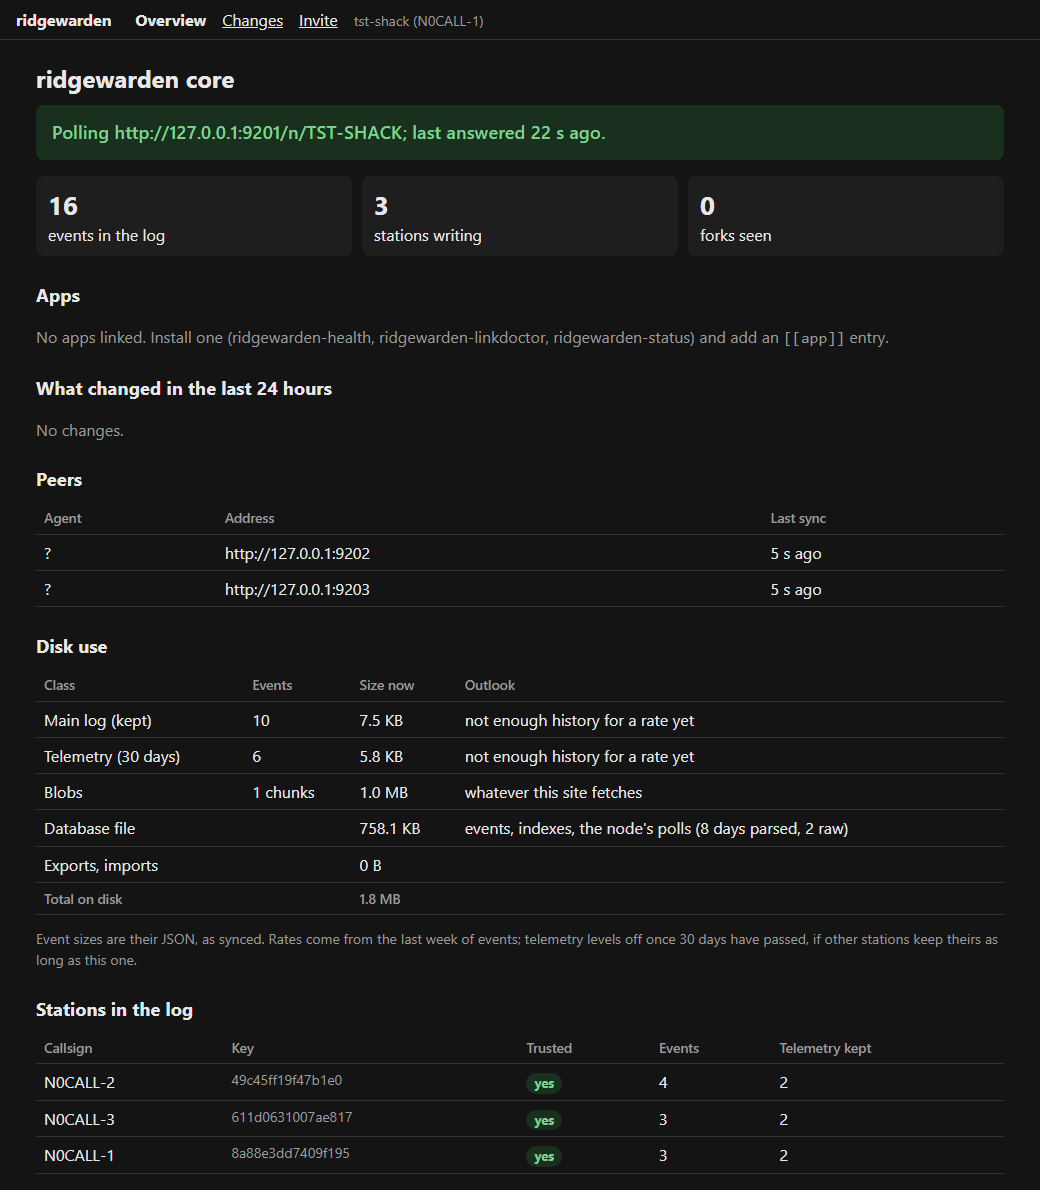
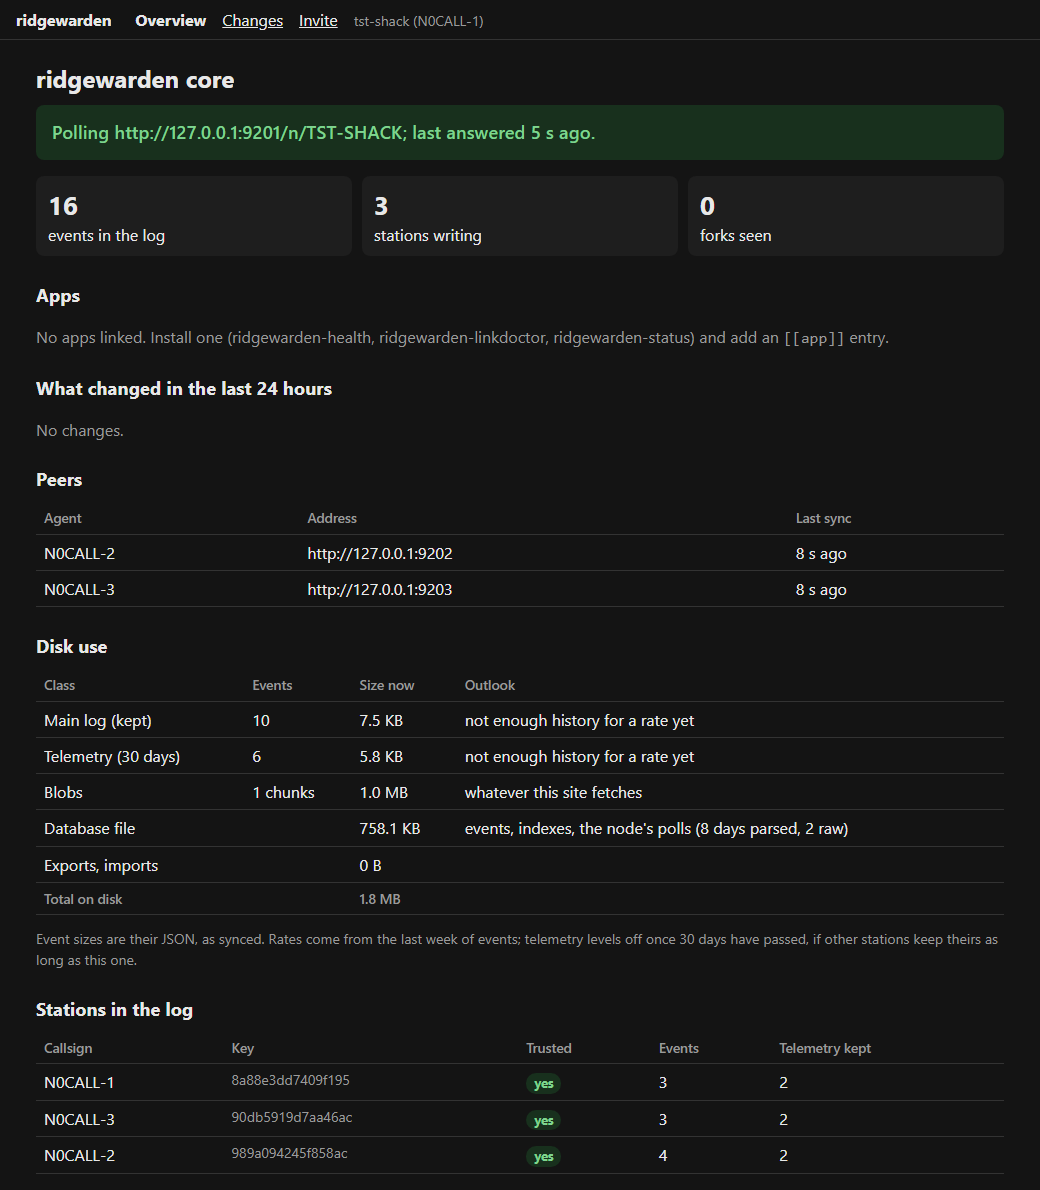
Recapture the README shots with named peers

diff --git a/README.md b/README.md
@@ -18,7 +18,7 @@
 
 <picture>
   <source media="(prefers-color-scheme: dark)" srcset="docs/images/dashboard-dark.png">
-  <img src="docs/images/dashboard-light.png" alt="The ridgewarden dashboard at site tst-shack, station N0CALL-1. A green headline says it polled its node 17 seconds ago. Cards show 16 events in the log, 3 stations writing and 0 forks seen. What changed in the last 24 hours: no changes. Both peers synced 1 second ago. A disk use table totals 1.8 MB, and the stations table lists N0CALL-1, N0CALL-2 and N0CALL-3, all trusted.">
+  <img src="docs/images/dashboard-light.png" alt="The ridgewarden dashboard at site tst-shack, station N0CALL-1. A green headline says it polled its node 4 seconds ago. Cards show 16 events in the log, 3 stations writing and 0 forks seen. What changed in the last 24 hours: no changes. Its two peers, N0CALL-2 and N0CALL-3, synced 7 seconds ago. A disk use table totals 1.8 MB, and the stations table lists N0CALL-1, N0CALL-2 and N0CALL-3, all trusted.">
 </picture>
 
 <sub>The dashboard at one of three sites on a simulated mesh (ridgewarden-sim), with all three in sync. The station names are made up.</sub>
@@ -70,11 +70,11 @@ The headline says how polling the node is going:
 | 🔴 | Node *node* last answered at *time*. | Its last answer is more than three poll intervals old. |
 | ⚪ | No poll yet. | The agent hasn't polled its node yet. |
 
-<img src="docs/images/partition.gif" alt="The tst-shack dashboard reloading through a partition drill. Site 2 is cut off: What changed lists tst-north and tst-paso as gone nodes and Paso Camera as a gone service, the peer row for site 2 turns red with failing, could not connect, and site 2's event counts stop while this site's keep growing. Then the link comes back: the peer syncs again, site 2's counts jump as the events it wrote during the split arrive, and What changed goes back to No changes.">
+<img src="docs/images/partition.gif" alt="The tst-shack dashboard reloading through a partition drill. Site 2 is cut off: its row in the peers table, N0CALL-2, turns red with failing, could not connect, What changed lists tst-north and tst-paso as gone nodes and Paso Camera as a gone service, and N0CALL-2's event counts stop while this site's keep growing. Then the link comes back: N0CALL-2 syncs again, its counts jump as the events it wrote during the split arrive, and What changed goes back to No changes.">
 
-<sub>A partition drill on the simulator: site 2 (tst-paso) cut off for 30 seconds and healed, about two minutes sped up to 12 seconds. The station names are made up.</sub>
+<sub>A partition drill on the simulator: site 2 (tst-paso) cut off for 40 seconds and healed, about two minutes sped up to under 12 seconds. The station names are made up.</sub>
 
-Under the headline: how many events the log holds, how many stations write to it and how many forks it has seen; links to the apps in the config; what changed on the mesh in the last 24 hours, as seen from this node; each peer and how its last sync went; disk use per class; and each station in the log, with its key, whether this site trusts it, its events (and how many are still missing) and the telemetry kept. A peer from the config or an invite shows `?` for its callsign, since only a peer found from its advert has its signed identity checked.
+Under the headline: how many events the log holds, how many stations write to it and how many forks it has seen; links to the apps in the config; what changed on the mesh in the last 24 hours, as seen from this node; each peer and how its last sync went; disk use per class; and each station in the log, with its key, whether this site trusts it, its events (and how many are still missing) and the telemetry kept. A peer shows the callsign from its signed identity, which the core checks when it finds the peer's advert or first pulls from it; until then it shows `?`.
 
 The Changes page makes the same comparison over 1 hour, 24 hours or 7 days, and the invite page is under [joining other sites](#joining-other-sites). A site that trusts only itself gets a note on how to join the others. The overview and the Changes page reload every minute.
 

diff --git a/CHANGELOG.md b/CHANGELOG.md
@@ -38,6 +38,7 @@ All notable changes to ridgewarden are listed here. The format follows [Keep a C
 - `ridgewarden update` tries releases from the mesh and GitHub together, newest first by a proper version order, and takes the first that checks out; two names for one version, such as `1.2.3` and `1.2.03`, used to break the sort. Ctrl-C at its prompt removes its work folder.
 - `ridgewarden update` reads the archive's checksum from `sha256sum` on stdin, so a path with a backslash in it can't garble it.
 - The dashboard's "stations writing" counts stations; it counted each station's telemetry log as another one.
+- Peers from the config or an invite are named by their callsign on the dashboard, in `status`, in `top` and in the metrics, from their signed identity, which the core checks after its first good pull from each. They showed `?` before.
 - The README runs the commands that open the agent's data as its user (`sudo -u ridgewarden`) and `update` with `sudo`, and says that the `.deb`'s own scripts don't check the release signature.
 
 ## [0.1.0] - 2026-11-20
